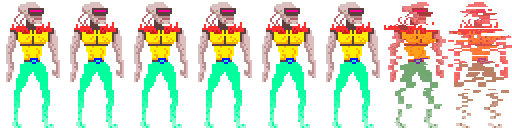
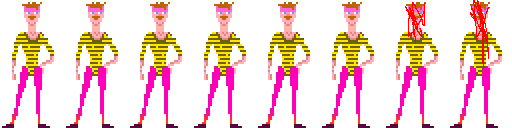
Change player assets! (and some tiles animation?)

diff --git a/data/map/save.tsx b/data/map/save.tsx
@@ -1,4 +1,12 @@
 <?xml version="1.0" encoding="UTF-8"?>
 <tileset name="save" tilewidth="32" tileheight="32" tilecount="4" columns="2">
  <image source="../img/save.png" width="64" height="66"/>
+ <tile id="3">
+  <animation>
+   <frame tileid="0" duration="150"/>
+   <frame tileid="1" duration="150"/>
+   <frame tileid="2" duration="150"/>
+   <frame tileid="3" duration="150"/>
+  </animation>
+ </tile>
 </tileset>
